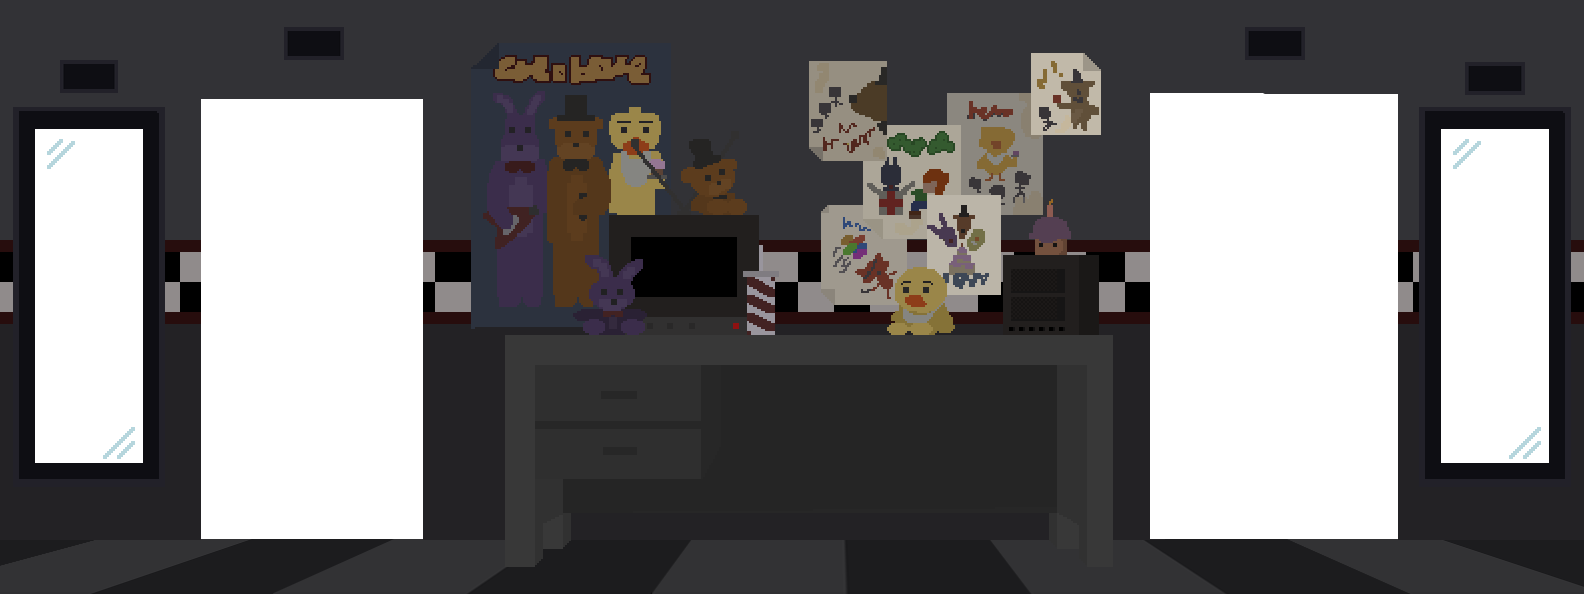
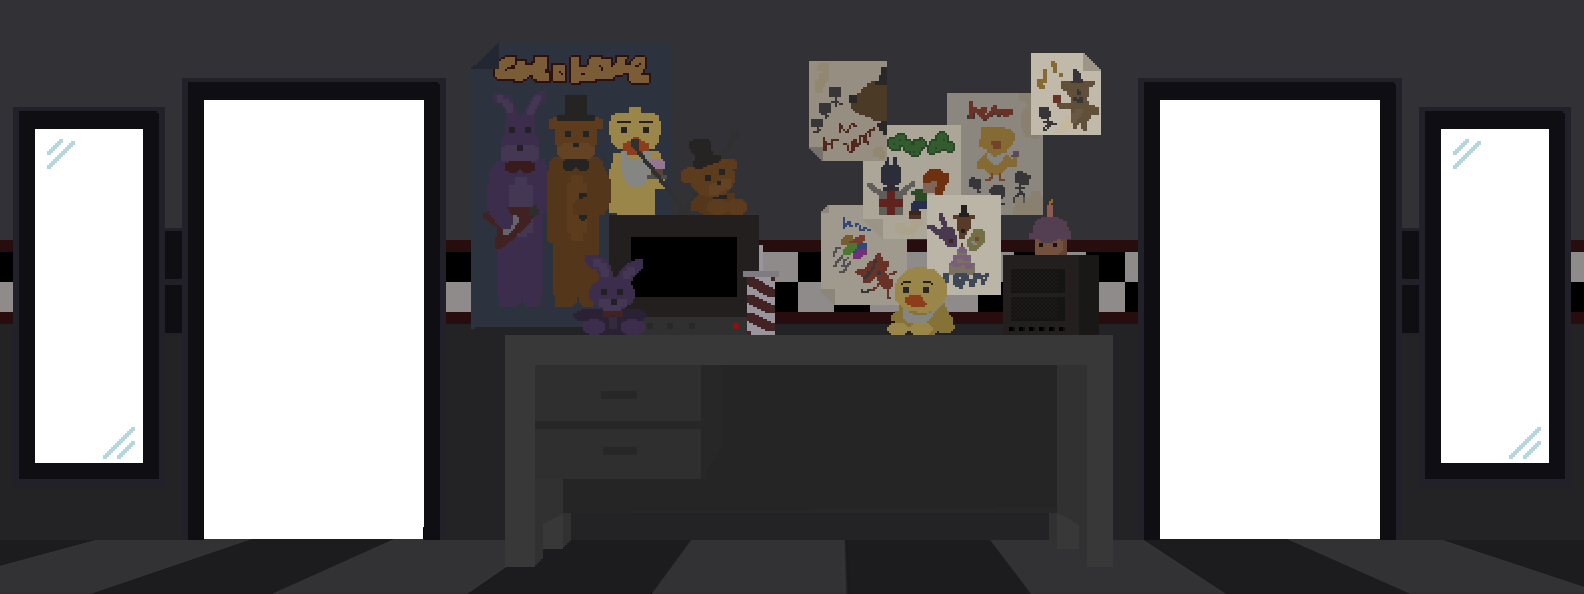
Cambios de posicion de los botones

diff --git a/FNAF/src/js/gameScene.js b/FNAF/src/js/gameScene.js
@@ -140,11 +140,11 @@ var GameScene =
         var office = this.game.add.sprite(0, 0, 'office');
 
         //Door and light buttons
-        this.lightLeft = new Light(this.game, 56, 60, 34, 94, 'leftLight');
-        this.lightRight = new Light(this.game, 68.5 * 4 + tamX + tamX / 2, 61.5, 92 + tamX + tamX / 3, 94, 'rightLight');
+        this.lightLeft = new Light(this.game, 157, 274, 34, 94, 'leftLight');
+        this.lightRight = new Light(this.game, 51.5 * 4 + tamX + tamX / 2, 274, 92 + tamX + tamX / 3, 94, 'rightLight');
 
-        this.doorLeft = new Door(this.game, 281.25, 27, 180, 78);
-        this.doorRight = new Door(this.game, tamX + 225 * 2, 27, tamX + 173 * 2, 78);
+        this.doorLeft = new Door(this.game, 157, 220, 185, 78);
+        this.doorRight = new Door(this.game, tamX + 301 * 2, 220, tamX + 173 * 2, 78);
 
         //Side edges
         this.moveLeft = this.game.add.sprite(0, 0, 'sideEdge');

diff --git a/FNAF/src/js/main.js b/FNAF/src/js/main.js
@@ -58,8 +58,8 @@ var PreloaderScene =
 
     //Objects
     this.game.load.spritesheet('buttonsCameras', './images/items/buttonsCameras.png', 33, 33, 22);
-    this.game.load.spritesheet('buttonLight', './images/items/buttonLight.png', 66, 33, 2);
-    this.game.load.spritesheet('buttonDoor', './images/items/buttonDoor.png', 66, 33, 2);
+    this.game.load.spritesheet('buttonLight', './images/items/buttonLight.png', 33, 66, 2);
+    this.game.load.spritesheet('buttonDoor', './images/items/buttonDoor.png', 33, 66, 2);
     this.game.load.spritesheet('doorClose', './images/items/doorClose.png', 264, 462, 3)
     this.game.load.spritesheet('doorOpen', './images/items/doorOpen.png', 264, 462, 3)
     this.game.load.image('camerasMap', './images/items/camerasMap.png');
